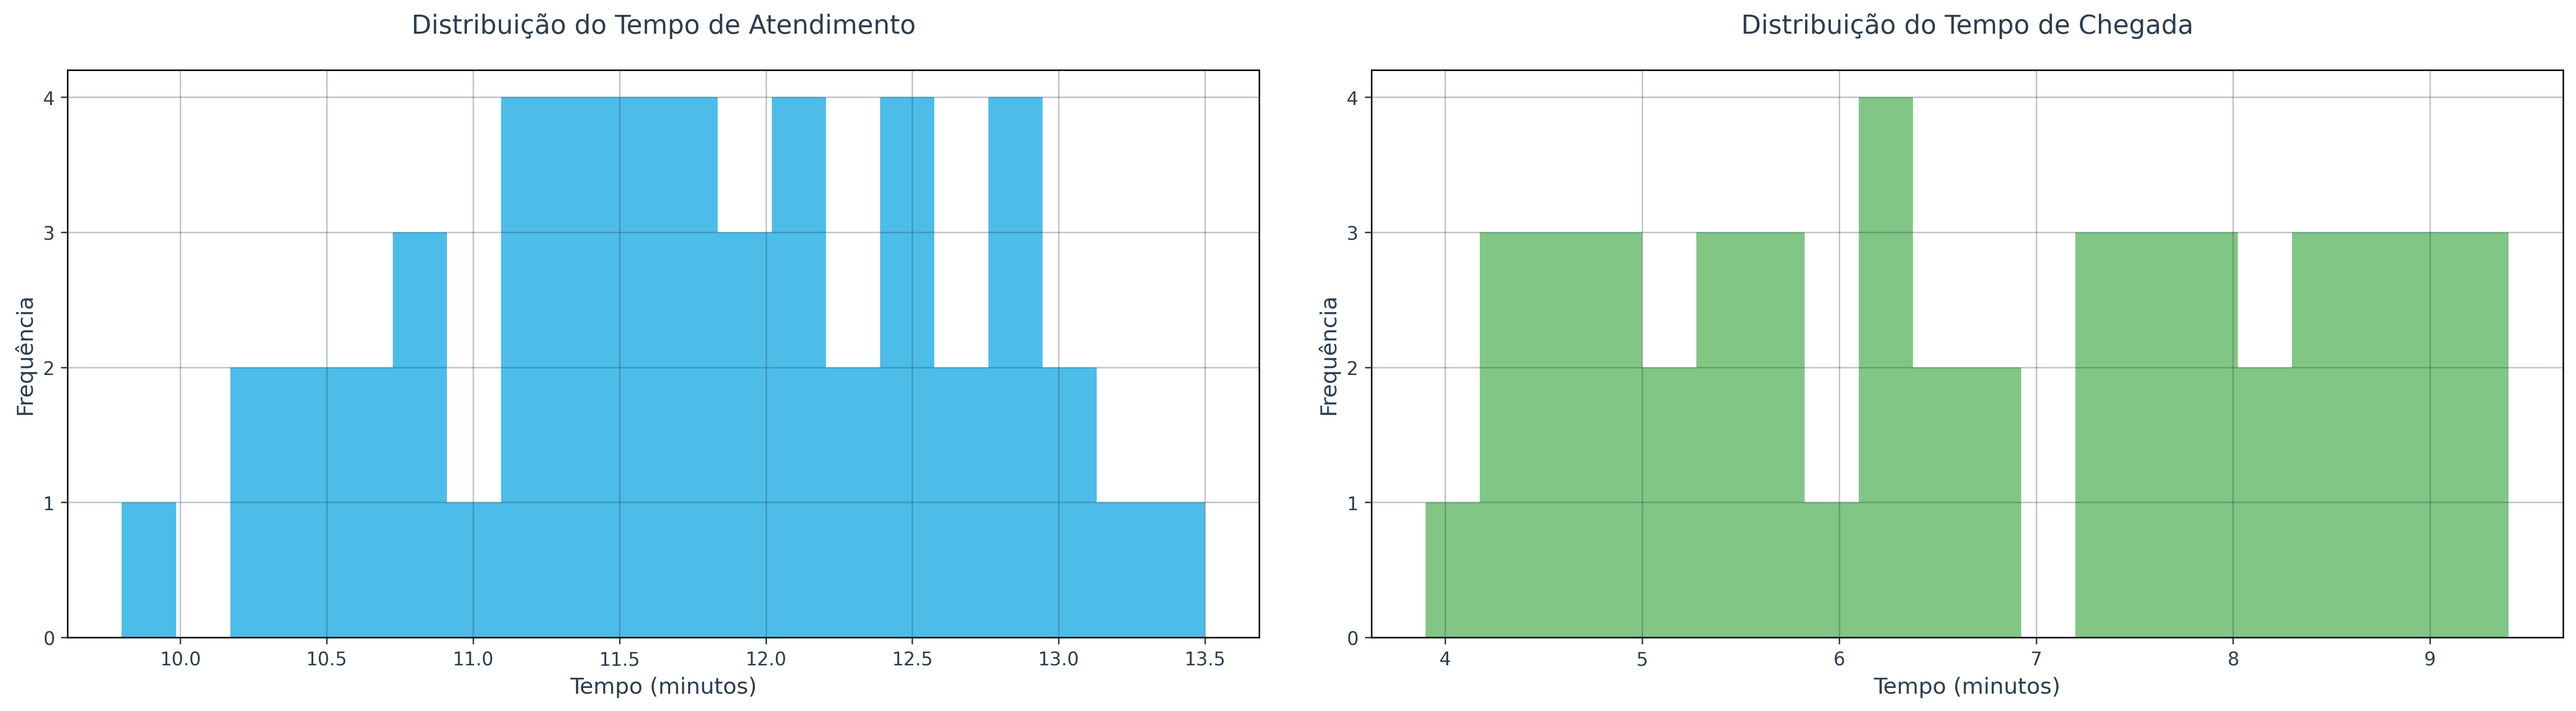
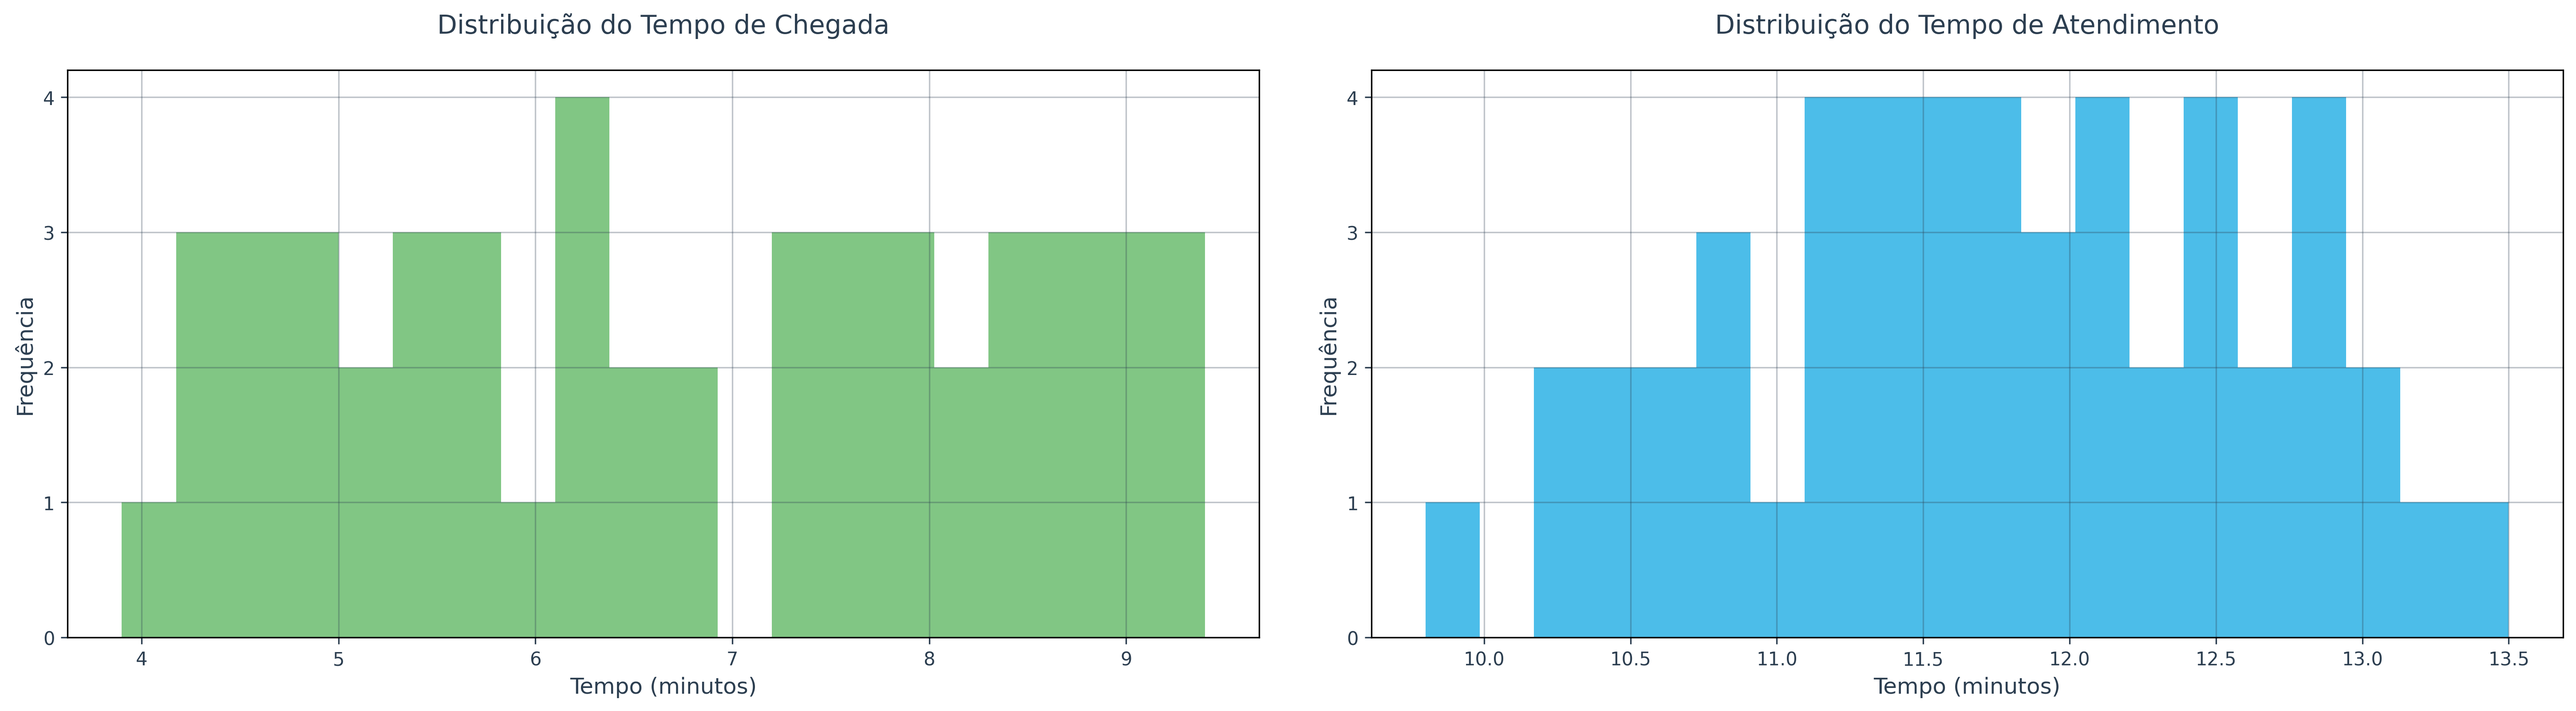
Correçao de moda e inversão dos histogramas

diff --git a/src/services/analise_estatistica.py b/src/services/analise_estatistica.py
@@ -27,16 +27,16 @@ class AnalisadorEstatistico:
             'variancia': 'Variância',
             'desvio_padrao': 'Desvio Padrão'
         }
-        
+
         for coluna, nome in nomes.items():
             dados = self.dados[coluna]
             moda = dados.mode()
-            valor_moda = "Não possui moda" if len(moda) > 1 else moda.iloc[0]
-            
+            valor_moda = ['Não possui moda'] if moda.empty else [' | '.join(str(x).replace('.', ',') for x in moda.tolist())]
+
             estatisticas[nome] = {
                 metricas['media']: dados.mean(),
                 metricas['mediana']: dados.median(),
-                metricas['moda']: valor_moda,
+                metricas['moda']: valor_moda[0],
                 metricas['variancia']: dados.var(),
                 metricas['desvio_padrao']: dados.std()
             }
@@ -68,10 +68,10 @@ class AnalisadorEstatistico:
         fig, (ax1, ax2) = plt.subplots(1, 2, figsize=(20, 6))
         fig.patch.set_facecolor(cor_fundo)
         
-        # Histograma do tempo de atendimento
+        # Histograma do tempo de chegada
         ax1.set_facecolor(cor_fundo)
-        _, bins, _ = ax1.hist(self.dados['tempo_atendimento'], bins=20, color=cor_primaria, alpha=0.7)
-        ax1.set_title('Distribuição do Tempo de Atendimento', fontsize=14, color=cor_texto, pad=20)
+        ax1.hist(self.dados['tempo_de_chegada'], bins=20, color=cor_secundaria, alpha=0.7)
+        ax1.set_title('Distribuição do Tempo de Chegada', fontsize=14, color=cor_texto, pad=20)
         ax1.set_xlabel('Tempo (minutos)', fontsize=12, color=cor_texto)
         ax1.set_ylabel('Frequência', fontsize=12, color=cor_texto)
         ax1.grid(True, alpha=0.3, color=cor_texto)
@@ -79,16 +79,16 @@ class AnalisadorEstatistico:
         # Forçar valores inteiros no eixo y
         ax1.yaxis.set_major_locator(plt.MaxNLocator(integer=True))
         
-        # Histograma do tempo de chegada
+        # Histograma do tempo de atendimento
         ax2.set_facecolor(cor_fundo)
-        ax2.hist(self.dados['tempo_de_chegada'], bins=20, color=cor_secundaria, alpha=0.7)
-        ax2.set_title('Distribuição do Tempo de Chegada', fontsize=14, color=cor_texto, pad=20)
+        _, bins, _ = ax2.hist(self.dados['tempo_atendimento'], bins=20, color=cor_primaria, alpha=0.7)
+        ax2.set_title('Distribuição do Tempo de Atendimento', fontsize=14, color=cor_texto, pad=20)
         ax2.set_xlabel('Tempo (minutos)', fontsize=12, color=cor_texto)
         ax2.set_ylabel('Frequência', fontsize=12, color=cor_texto)
         ax2.grid(True, alpha=0.3, color=cor_texto)
         ax2.tick_params(colors=cor_texto)
         # Forçar valores inteiros no eixo y
-        ax2.yaxis.set_major_locator(plt.MaxNLocator(integer=True))
+        ax2.yaxis.set_major_locator(plt.MaxNLocator(integer=True))        
 
         plt.tight_layout(pad=3.0)
         plt.savefig('assets/graphs/histogramas_estatisticos.png', dpi=300, facecolor=cor_fundo, bbox_inches='tight')
